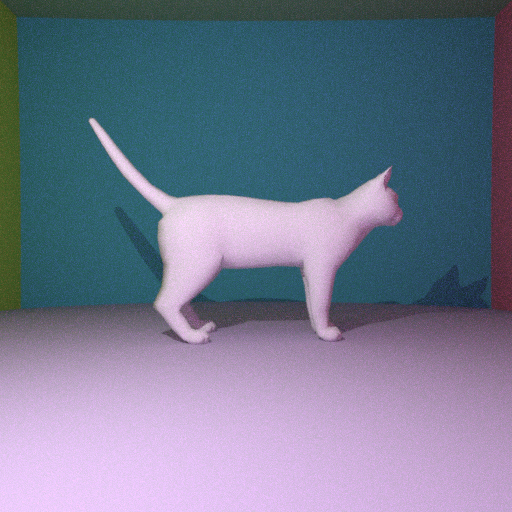
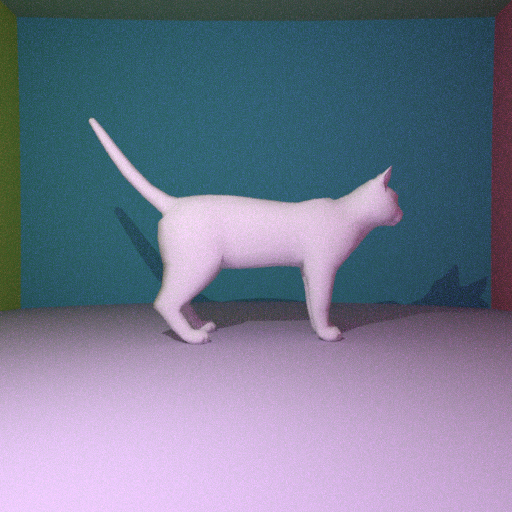
done lab 4 without texture

diff --git a/main.cpp b/main.cpp
@@ -137,6 +137,22 @@ public:
 };
 
 
+// ------------------------------------------------------------------
+// BVH node (lab 4, slides 8-10 and slide 47)
+//
+// Slide 47 (lab recap) explicitly lists the structure:
+//   - Left & right nodes
+//   - BBox
+//   - int start_index, end_index
+// ------------------------------------------------------------------
+struct BVHNode {
+	Vector    bmin, bmax;                      // bounding box of this node
+	BVHNode*  left  = nullptr;                 // child nodes (null for a leaf)
+	BVHNode*  right = nullptr;
+	int       start_index = 0, end_index = 0;  // range [start, end) in indices[]
+};
+
+
 class TriangleMesh : public Object {
 public:
 	TriangleMesh(const Vector& albedo, bool mirror = false, bool transparent = false)
@@ -144,6 +160,8 @@ public:
 		bmin = Vector( 1e18,  1e18,  1e18);
 		bmax = Vector(-1e18, -1e18, -1e18);
 	};
+
+	~TriangleMesh() { freeBVH(bvh_root); }
 
 	// scale then translate every vertex
 	void scale_translate(double s, const Vector& t) {
@@ -270,117 +288,205 @@ public:
 	}
 
 	// ------------------------------------------------------------------
-	// Lab 3 - Step 1: Ray vs. axis-aligned bounding box  (slide 7)
+	// Ray vs. axis-aligned bounding box  (slide 7)
 	//
 	// For each axis k, the two slab planes give:
 	//     t_k = (B_k - O_k) / u_k          (slide 7 formula)
 	// We compute t_entry = max over axes of min(t0,t1)
 	//            t_exit  = min over axes of max(t0,t1)
 	// The ray hits the box iff t_entry <= t_exit  AND  t_exit > 0.
+	//
+	// In Lab 4 we call this on every BVH node, so it takes (bmin,bmax)
+	// as parameters instead of using the mesh's global bbox.
 	// ------------------------------------------------------------------
-	bool intersectBBox(const Ray& ray) const {
+	static bool intersectAABB(const Vector& bb_min, const Vector& bb_max, const Ray& ray) {
 		double t_entry = -1e18;
 		double t_exit  =  1e18;
 
 		for (int k = 0; k < 3; k++) {
 			// slide 7: t^x = (B^x - O^x) / u^x   (same for y and z)
-			double t0 = (bmin[k] - ray.O[k]) / ray.u[k];
-			double t1 = (bmax[k] - ray.O[k]) / ray.u[k];
+			double t0 = (bb_min[k] - ray.O[k]) / ray.u[k];
+			double t1 = (bb_max[k] - ray.O[k]) / ray.u[k];
 
-			if (t0 > t1) std::swap(t0, t1);   // ensure t0 <= t1
+			if (t0 > t1) std::swap(t0, t1);
 
-			t_entry = std::max(t_entry, t0);   // latest entry across axes
-			t_exit  = std::min(t_exit,  t1);   // earliest exit across axes
+			t_entry = std::max(t_entry, t0);
+			t_exit  = std::min(t_exit,  t1);
 
-			if (t_exit < t_entry) return false; // intervals don't overlap -> miss
+			if (t_exit < t_entry) return false;
 		}
-		return t_exit > 0; // at least part of intersection is in front of ray
+		return t_exit > 0;
 	}
 
 	// ------------------------------------------------------------------
-	// Lab 3 - Step 2: Ray-mesh intersection
-	//   (a) fast-reject with the bounding box     (slide 7)
-	//   (b) Moller-Trumbore on every triangle     (slides 5 and 36)
+	// Lab 4 - BVH construction (slides 8-9, slide 47)
 	//
-	// Moller-Trumbore formulas (slide 5 / lab recap slide 36):
+	// "Reordering of triangles akin to QuickSort"  (slide 9):
+	//   - Pick the longest axis of the node's bbox
+	//   - Compute the middle of that axis
+	//   - All triangles whose center is below the middle go to the
+	//     beginning of the [start, end) range, the others to the end
+	//   - Recurse on the two ranges
+	//
+	// Each node stores: bbox, start_index, end_index, left/right children.
+	// ------------------------------------------------------------------
+	BVHNode* buildBVHRecursive(int start, int end) {
+		BVHNode* node = new BVHNode();
+		node->start_index = start;
+		node->end_index   = end;
+
+		// 1) Compute bounding box of all triangles in [start, end)
+		node->bmin = Vector( 1e18,  1e18,  1e18);
+		node->bmax = Vector(-1e18, -1e18, -1e18);
+		for (int i = start; i < end; i++) {
+			for (int v = 0; v < 3; v++) {
+				const Vector& V = vertices[indices[i].vtx[v]];
+				for (int k = 0; k < 3; k++) {
+					node->bmin[k] = std::min(node->bmin[k], V[k]);
+					node->bmax[k] = std::max(node->bmax[k], V[k]);
+				}
+			}
+		}
+
+		// 2) Stop condition: small ranges become leaves
+		int count = end - start;
+		if (count <= 5) return node;
+
+		// 3) Pick longest axis (slide 9: "usually: longest axis")
+		Vector diag = node->bmax - node->bmin;
+		int axis = 0;
+		if (diag[1] > diag[axis]) axis = 1;
+		if (diag[2] > diag[axis]) axis = 2;
+
+		// 4) Middle of that axis
+		double mid = 0.5 * (node->bmin[axis] + node->bmax[axis]);
+
+		// 5) QuickSort-style partition (slide 9):
+		//    triangles whose center is below mid go to the beginning
+		int pivot = start;
+		for (int i = start; i < end; i++) {
+			const Vector& A = vertices[indices[i].vtx[0]];
+			const Vector& B = vertices[indices[i].vtx[1]];
+			const Vector& C = vertices[indices[i].vtx[2]];
+			double center = (A[axis] + B[axis] + C[axis]) / 3.0;
+			if (center < mid) {
+				std::swap(indices[i], indices[pivot]);
+				pivot++;
+			}
+		}
+
+		// 6) Avoid degenerate split (everything on one side -> make leaf)
+		if (pivot == start || pivot == end) return node;
+
+		// 7) Recurse
+		node->left  = buildBVHRecursive(start, pivot);
+		node->right = buildBVHRecursive(pivot, end);
+		return node;
+	}
+
+	void buildBVH() {
+		freeBVH(bvh_root);
+		if (indices.empty()) { bvh_root = nullptr; return; }
+		bvh_root = buildBVHRecursive(0, (int)indices.size());
+		printf("[mesh] BVH built over %d triangles\n", (int)indices.size());
+	}
+
+	void freeBVH(BVHNode* n) {
+		if (!n) return;
+		freeBVH(n->left);
+		freeBVH(n->right);
+		delete n;
+	}
+
+	// ------------------------------------------------------------------
+	// Lab 4 - Ray-mesh intersection with BVH traversal (slide 10)
+	//
+	//   - Push tree's root
+	//   - If left child's box is intersected,  push left child
+	//   - If right child's box is intersected, push right child
+	//   - If leaf, test triangles in [start_index, end_index)
+	//   - Depth-first traversal (we keep `closest_t` so far so that
+	//     boxes farther than the current best can be pruned).
+	//
+	// Triangle test = Möller-Trumbore (slides 5 and 36):
 	//   e1 = B - A,   e2 = C - A,   N = e1 x e2
 	//   beta  =  < e2 , (A-O) x u > / < u , N >
 	//   gamma = -< e1 , (A-O) x u > / < u , N >
 	//   alpha = 1 - beta - gamma
 	//   t     =  < A-O , N >        / < u , N >
-	//
-	// Valid intersection: alpha, beta, gamma >= 0  and  t > 0.
 	// ------------------------------------------------------------------
 	bool intersect(const Ray& ray, Vector& P, double& t, Vector& N) const {
 
-		// ---- (a) bounding-box early-out (slide 7) ----
-		if (!intersectBBox(ray)) return false;
+		if (!bvh_root) return false;
+		if (!intersectAABB(bvh_root->bmin, bvh_root->bmax, ray)) return false;
 
 		double closest_t = 1e18;
 		bool   has_isect = false;
 
-		for (int tri = 0; tri < (int)indices.size(); tri++) {
+		// Depth-first stack traversal (slide 10)
+		BVHNode* stack[64];
+		int sp = 0;
+		stack[sp++] = bvh_root;
 
-			// Vertices A, B, C  (slide 5 notation)
-			const Vector& A = vertices[indices[tri].vtx[0]];
-			const Vector& B = vertices[indices[tri].vtx[1]];
-			const Vector& C = vertices[indices[tri].vtx[2]];
+		while (sp > 0) {
+			BVHNode* node = stack[--sp];
 
-			// e1 = B - A,  e2 = C - A   (slide 5)
-			Vector e1 = B - A;
-			Vector e2 = C - A;
+			// Leaf: run Möller-Trumbore on every triangle in the range
+			if (node->left == nullptr && node->right == nullptr) {
+				for (int tri = node->start_index; tri < node->end_index; tri++) {
 
-			// N = e1 x e2   (slide 5)
-			Vector N_tri = cross(e1, e2);
+					const Vector& A = vertices[indices[tri].vtx[0]];
+					const Vector& B = vertices[indices[tri].vtx[1]];
+					const Vector& C = vertices[indices[tri].vtx[2]];
 
-			// denominator = < u , N >   (slide 5)
-			double denom = dot(ray.u, N_tri);
+					Vector e1    = B - A;
+					Vector e2    = C - A;
+					Vector N_tri = cross(e1, e2);
 
-			// ray parallel to triangle plane -> skip
-			if (std::abs(denom) < 1e-12) continue;
+					double denom = dot(ray.u, N_tri);
+					if (std::abs(denom) < 1e-12) continue;
 
-			// A - O  (used in all three formulas)
-			Vector AmO = A - ray.O;
+					Vector AmO         = A - ray.O;
+					Vector AmO_cross_u = cross(AmO, ray.u);
 
-			// (A-O) x u   (shared sub-expression for beta and gamma)
-			Vector AmO_cross_u = cross(AmO, ray.u);
+					double beta   =  dot(e2, AmO_cross_u) / denom;
+					double gamma  = -dot(e1, AmO_cross_u) / denom;
+					double alpha  = 1.0 - beta - gamma;
+					double t_cand = dot(AmO, N_tri)       / denom;
 
-			// beta  =  < e2 , (A-O) x u > / < u , N >   (slide 5)
-			double beta  =  dot(e2, AmO_cross_u) / denom;
+					if (alpha >= 0.0 && beta >= 0.0 && gamma >= 0.0 &&
+					    t_cand > 1e-6 && t_cand < closest_t)
+					{
+						closest_t = t_cand;
+						has_isect = true;
+						t = t_cand;
+						P = ray.O + t_cand * ray.u;
 
-			// gamma = -< e1 , (A-O) x u > / < u , N >   (slide 5)
-			double gamma = -dot(e1, AmO_cross_u) / denom;
-
-			// alpha = 1 - beta - gamma   (slide 5)
-			double alpha = 1.0 - beta - gamma;
-
-			// t = < A-O , N > / < u , N >   (slide 5)
-			double t_cand = dot(AmO, N_tri) / denom;
-
-			// valid hit: all barycentric coords >= 0, t in front, closer than current best
-			if (alpha >= 0.0 && beta >= 0.0 && gamma >= 0.0 &&
-			    t_cand > 1e-6 && t_cand < closest_t)
-			{
-				closest_t = t_cand;
-				has_isect = true;
-				t = t_cand;
-				P = ray.O + t_cand * ray.u;
-
-				// Phong normal interpolation (slide 15):
-				//   N(P) = alpha*N_A + beta*N_B + gamma*N_C
-				if (!normals.empty() &&
-				    indices[tri].n[0] >= 0 &&
-				    indices[tri].n[1] >= 0 &&
-				    indices[tri].n[2] >= 0)
-				{
-					N = alpha * normals[indices[tri].n[0]]
-					  + beta  * normals[indices[tri].n[1]]
-					  + gamma * normals[indices[tri].n[2]];
-				} else {
-					N = N_tri;   // flat shading fallback
+						// Phong normal interpolation (slide 15)
+						if (!normals.empty() &&
+						    indices[tri].n[0] >= 0 &&
+						    indices[tri].n[1] >= 0 &&
+						    indices[tri].n[2] >= 0)
+						{
+							N = alpha * normals[indices[tri].n[0]]
+							  + beta  * normals[indices[tri].n[1]]
+							  + gamma * normals[indices[tri].n[2]];
+						} else {
+							N = N_tri;
+						}
+						N.normalize();
+					}
 				}
-				N.normalize();
+				continue;
 			}
+
+			// Internal node: push children whose boxes are intersected.
+			// We can also prune children whose nearest box-hit is farther
+			// than the current best closest_t.
+			if (node->left  && intersectAABB(node->left->bmin,  node->left->bmax,  ray))
+				stack[sp++] = node->left;
+			if (node->right && intersectAABB(node->right->bmin, node->right->bmax, ray))
+				stack[sp++] = node->right;
 		}
 
 		return has_isect;
@@ -395,6 +501,9 @@ public:
 
 	// axis-aligned bounding box corners (lab 3)
 	Vector bmin, bmax;
+
+	// BVH root (lab 4)
+	BVHNode* bvh_root = nullptr;
 };
 
 
@@ -511,6 +620,7 @@ int main() {
 	TriangleMesh mesh(Vector(0.8, 0.8, 0.8));
 	mesh.readOBJ("cat.obj");
 	mesh.scale_translate(0.6, Vector(0, -10, 0));
+	mesh.buildBVH();   // lab 4: must be called AFTER all vertex transforms
 
 	Scene scene;
 	scene.camera_center   = Vector(0, 0, 55);